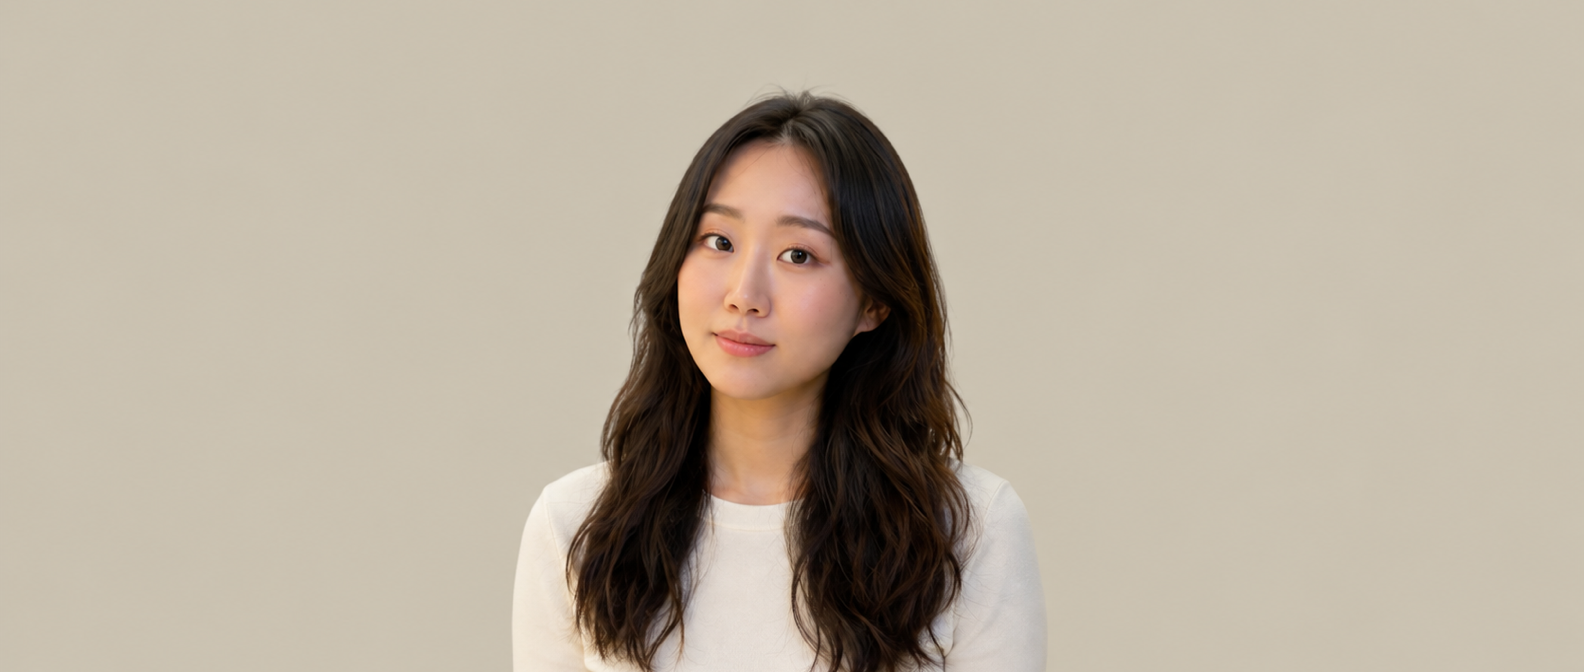
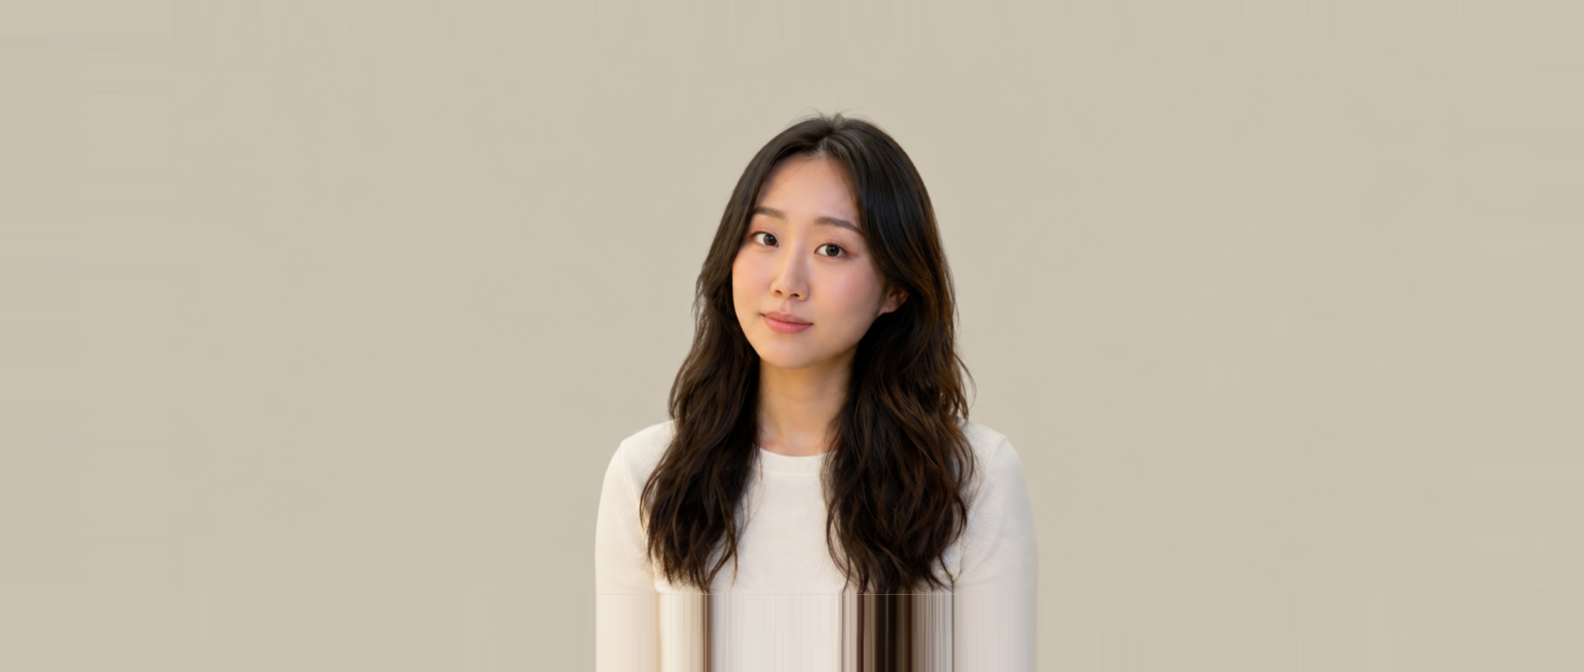
Fit every team portrait to one face size and eye line
The nine portraits come from different shoots, so the faces landed at
wildly different sizes: face width ran 157px (Sireal) to 223px (Chloe),
a 1.42x spread, and the eye line moved 56px between cards. Side by side
in the grid that reads as sloppiness.

tools/pfp/fit-portrait.swift detects the face with Vision and scales and
positions the photo into one house frame - face width 185px, eye line
y=245, face centred at x=792. Measured after: face width 183.4-187.8,
eye line 243.7-245.7. Normalising on face width rather than head or
shoulder width is deliberate; hair volume is the person's own attribute
and should not drive the layout.

Scaling up just crops in, but scaling down leaves margins, so those are
filled by stretching the source's own outermost pixel rows outward. That
is seamless here because the backdrop is flat (measured deviation 0-5
per channel) and the torso leaves the bottom edge close to vertical, so
the body continues straight down rather than leaving a hole.

Not fixed: the backdrop colour still ranges from #AEA794 on Annie's to
#D7D3CA on Rachel's. Masking a recolour off a subject risks haloing
their hair, so it is left alone and documented instead.

Changed region(s): [[0.3093, 0.125, 0.6496, 1.0]]

diff --git a/tools/pfp/fit-portrait.swift b/tools/pfp/fit-portrait.swift
@@ -1,0 +1,122 @@
+// fit-portrait — put a team portrait into the Team Human PFP frame.
+//
+//   swift fit-portrait.swift <input> <output.png> [--measure-only]
+//
+// Detects the face with Vision, then scales and positions the photo so every
+// portrait on the team page shares one face size and one eye line. Margins
+// created by scaling down are filled by stretching the source's own edge
+// pixels, which is seamless because the studio backdrop is flat and the torso
+// leaves the bottom edge vertically.
+//
+// House frame (see CLAUDE.md -> Current Team):
+//   canvas 1584x672 · face width 185px · eye line y=245 · face centred at x=792
+
+import Foundation
+import Vision
+import CoreGraphics
+import ImageIO
+import UniformTypeIdentifiers
+
+let OUT_W = 1584.0, OUT_H = 672.0
+let TARGET_FACE_W = 185.0, TARGET_EYE_Y = 245.0, TARGET_FACE_CX = 792.0
+
+let args = CommandLine.arguments
+guard args.count >= 2 else {
+    FileHandle.standardError.write("usage: fit-portrait <input> <output.png> [--measure-only]\n".data(using: .utf8)!)
+    exit(2)
+}
+let inPath = args[1]
+let measureOnly = args.contains("--measure-only")
+let outPath = (args.count > 2 && !args[2].hasPrefix("--")) ? args[2] : ""
+
+guard let src = CGImageSourceCreateWithURL(URL(fileURLWithPath: inPath) as CFURL, nil),
+      let img = CGImageSourceCreateImageAtIndex(src, 0, nil) else {
+    FileHandle.standardError.write("cannot read \(inPath)\n".data(using: .utf8)!); exit(1)
+}
+let SW = Double(img.width), SH = Double(img.height)
+
+// ---- face + eye line ------------------------------------------------------
+let req = VNDetectFaceLandmarksRequest()
+try VNImageRequestHandler(cgImage: img, options: [:]).perform([req])
+guard let faces = req.results, !faces.isEmpty,
+      let f = faces.max(by: { $0.boundingBox.width < $1.boundingBox.width }) else {
+    FileHandle.standardError.write("no face found in \(inPath)\n".data(using: .utf8)!); exit(1)
+}
+let bb = f.boundingBox
+let faceW  = bb.width * SW
+let faceCX = (bb.minX + bb.width/2) * SW
+var eyeY = (1 - (bb.minY + bb.height * 0.62)) * SH   // fallback if landmarks are missing
+if let lm = f.landmarks, let le = lm.leftEye, let re = lm.rightEye {
+    func centreY(_ r: VNFaceLandmarkRegion2D) -> Double {
+        var sy = 0.0
+        for p in r.normalizedPoints { sy += Double(p.y) }
+        let gy = bb.minY + CGFloat(sy / Double(r.pointCount)) * bb.height
+        return Double((1 - gy) * SH)
+    }
+    eyeY = (centreY(le) + centreY(re)) / 2
+}
+
+// ---- backdrop colour: median of the four corner patches -------------------
+let cs = CGColorSpaceCreateDeviceRGB()
+let buf = UnsafeMutablePointer<UInt8>.allocate(capacity: img.width * img.height * 4)
+defer { buf.deallocate() }
+buf.initialize(repeating: 0, count: img.width * img.height * 4)
+CGContext(data: buf, width: img.width, height: img.height, bitsPerComponent: 8,
+          bytesPerRow: img.width * 4, space: cs,
+          bitmapInfo: CGImageAlphaInfo.premultipliedLast.rawValue)!
+    .draw(img, in: CGRect(x: 0, y: 0, width: SW, height: SH))
+var sr: [Int] = [], sg: [Int] = [], sb: [Int] = []
+for (cx, cy) in [(8, 8), (img.width - 9, 8), (8, img.height - 9), (img.width - 9, img.height - 9)] {
+    for dx in -6...5 { for dy in -6...5 {
+        let i = ((cy + dy) * img.width + (cx + dx)) * 4
+        sr.append(Int(buf[i])); sg.append(Int(buf[i+1])); sb.append(Int(buf[i+2]))
+    } }
+}
+sr.sort(); sg.sort(); sb.sort()
+let bgR = sr[sr.count/2], bgG = sg[sg.count/2], bgB = sb[sb.count/2]
+
+let scale = TARGET_FACE_W / faceW
+if measureOnly {
+    print(String(format: "%@\tfaceW=%.1f\tfaceCX=%.1f\teyeY=%.1f\tscale=%.3f\tbg=#%02X%02X%02X",
+                 (inPath as NSString).lastPathComponent, faceW, faceCX, eyeY, scale, bgR, bgG, bgB))
+    exit(0)
+}
+guard !outPath.isEmpty else {
+    FileHandle.standardError.write("missing <output.png>\n".data(using: .utf8)!); exit(2)
+}
+
+// ---- render ---------------------------------------------------------------
+let tx = TARGET_FACE_CX - faceCX * scale
+let ty = TARGET_EYE_Y   - eyeY   * scale
+guard let ctx = CGContext(data: nil, width: Int(OUT_W), height: Int(OUT_H), bitsPerComponent: 8,
+                          bytesPerRow: 0, space: cs,
+                          bitmapInfo: CGImageAlphaInfo.noneSkipLast.rawValue) else { exit(1) }
+ctx.interpolationQuality = .high
+ctx.setFillColor(red: Double(bgR)/255, green: Double(bgG)/255, blue: Double(bgB)/255, alpha: 1)
+ctx.fill(CGRect(x: 0, y: 0, width: OUT_W, height: OUT_H))
+
+func rect(_ x: Double, _ y: Double, _ w: Double, _ h: Double) -> CGRect {   // top-left -> CG
+    CGRect(x: x, y: OUT_H - y - h, width: w, height: h)
+}
+let dw = SW * scale, dh = SH * scale, edge = 2
+if ty > 0, let s = img.cropping(to: CGRect(x: 0, y: 0, width: img.width, height: edge)) {
+    ctx.draw(s, in: rect(tx, 0, dw, ty))
+}
+if ty + dh < OUT_H, let s = img.cropping(to: CGRect(x: 0, y: img.height - edge, width: img.width, height: edge)) {
+    ctx.draw(s, in: rect(tx, ty + dh, dw, OUT_H - (ty + dh)))
+}
+if tx > 0, let s = img.cropping(to: CGRect(x: 0, y: 0, width: edge, height: img.height)) {
+    ctx.draw(s, in: rect(0, ty, tx, dh))
+}
+if tx + dw < OUT_W, let s = img.cropping(to: CGRect(x: img.width - edge, y: 0, width: edge, height: img.height)) {
+    ctx.draw(s, in: rect(tx + dw, ty, OUT_W - (tx + dw), dh))
+}
+ctx.draw(img, in: rect(tx, ty, dw, dh))
+
+guard let out = ctx.makeImage(),
+      let dest = CGImageDestinationCreateWithURL(URL(fileURLWithPath: outPath) as CFURL,
+                                                 UTType.png.identifier as CFString, 1, nil) else { exit(1) }
+CGImageDestinationAddImage(dest, out, nil)
+guard CGImageDestinationFinalize(dest) else { exit(1) }
+print(String(format: "%@  scale=%.3f  faceW %.1f -> %.0f  eyeY %.1f -> %.0f",
+             (outPath as NSString).lastPathComponent, scale, faceW, TARGET_FACE_W, eyeY, TARGET_EYE_Y))

diff --git a/CLAUDE.md b/CLAUDE.md
@@ -28,6 +28,7 @@ images/
   Recap/vol3/            # vol.3 recap photos — hero-group.jpg + g1–g6.jpg (web-resized, see "Recap section")
   Moments/               # homepage gallery — 2 photos per hackathon, vol<N>-<slug>.jpg (see "Moments")
 team-human-design.pen    # Pencil design source-of-truth mockup (Home + Events frames)
+tools/pfp/               # portrait framing tool (Vision + CoreGraphics) — see "Current Team"
 vercel.json              # Rewrites + Git-integration config — see "Deployment" below
 CONTRIBUTING.md          # Contributor onboarding (Korean) — clone-don't-fork, branch/PR flow
 .github/workflows/
@@ -69,7 +70,20 @@ Team cards are **randomly shuffled** on each page load via `shuffleTeamCards()` 
 | SMU | team.smu | /in/smu00 |
 | Chloe Kim | team.chloe | /in/chaennnnnn |
 
-**Profile photos are all `1584 x 672`** (the LinkedIn banner ratio) on a flat warm-greige backdrop, `#C9C3B3`, subject centred with the head near the top and the frame cutting off around chest level. The card renders them at `height: 200px; object-fit: cover`, so it centre-crops — **vertical framing is what matters, the wide empty sides get cut.** When a new member only has snapshots, the house style is reproduced by editing them through the `codex` CLI (see the `draw-image` skill) and then cropping to spec with `sips`; Chloe's was built that way on 2026-09-06 from a personal snapshot (Dave picked the variant; the 1672x941 source is archived at `PARA/1. Inbox/01_Images/Chloe_원본_1672x941_20260906.png`, cropped here with `sips -c 709 1672 --cropOffset 34 0` then scaled to 1584x672). **A generated portrait must be shown to the person before it ships** — it is their face.
+**Profile photos are all `1584 x 672`** (the LinkedIn banner ratio) on a flat warm-greige backdrop, subject on a plain top, frame cutting off around chest level. The card renders them at `height: 200px; object-fit: cover`, so it also centre-crops horizontally — **vertical framing is what the visitor sees; the wide empty sides get cut.**
+
+🔴 **Do not eyeball the crop — run `tools/pfp/fit-portrait.swift`.** The photos come from different shoots, and left alone the faces land at wildly different sizes: measured 2026-09-06, face width ran from **157px (Sireal) to 223px (Chloe)**, a 1.42x spread, with the eye line moving 56px between cards. In a nine-card grid that reads as sloppiness, and it is not fixable by eye. The tool detects the face with Vision and scales/positions the photo into one house frame — **face width 185px, eye line y=245, face centred at x=792** — which brought those spreads to 4px and 2px. `tools/pfp/readme.md` has the full rationale; `tools/pfp/fit-all.sh` re-fits the whole roster if the constants ever change.
+
+```bash
+swift tools/pfp/fit-portrait.swift <source>.png images/PFP/Name.png   # fit a new member
+swift tools/pfp/fit-portrait.swift images/PFP/Name.png --measure-only # check, change nothing
+```
+
+Normalise on **face** width, not head or shoulder width — hair volume is a person's own attribute and should not drive the layout. Always fit from the original photo, never from an already-fitted file; each pass resamples.
+
+**The backdrop *colour* is still not normalised** — it ranges from `#AEA794` (Annie) to `#D7D3CA` (Rachel), and Annie's card reads visibly darker than the rest. The tool deliberately leaves colour alone, because masking a backdrop recolour off a subject risks haloing their hair.
+
+When a new member only has snapshots, the house look is reproduced by editing them through the `codex` CLI (see the `draw-image` skill) onto a flat greige backdrop, then fitting with the tool above. Chloe's was built that way on 2026-09-06 from a personal snapshot; sources are archived in `PARA/1. Inbox/01_Images/`. **A generated portrait must be shown to the person before it ships** — it is their face.
 
 ### Events page state machine (`events.html`)
 

diff --git a/tools/pfp/readme.md b/tools/pfp/readme.md
@@ -1,0 +1,64 @@
+# Team portrait frame
+
+Every photo in `images/PFP/` is `1584 x 672` with the subject on a flat warm-greige
+backdrop. The card renders it at `height: 200px; object-fit: cover`, so it also
+centre-crops horizontally — **vertical framing is what the visitor sees.**
+
+Photos come from different shoots, so left alone the faces land at wildly
+different sizes. Measured before this tool existed, face width ranged from
+**157px (Sireal) to 223px (Chloe)** — a 1.42x spread — and the eye line moved
+over 56px between cards. In a nine-card grid that reads as sloppiness.
+
+## The house frame
+
+| | |
+|---|---|
+| canvas | `1584 x 672` |
+| face width | **185 px** |
+| eye line | **y = 245** |
+| face centre | **x = 792** (frame centre) |
+
+Face width, not head or shoulder width — hair volume is a person's own
+attribute and should not drive the layout. Aligning the eye line is what makes
+a row of portraits read as one set.
+
+## Use
+
+```bash
+# fit one new member's photo
+swift tools/pfp/fit-portrait.swift ~/somewhere/new-member.png images/PFP/Name.png
+
+# just measure, change nothing
+swift tools/pfp/fit-portrait.swift images/PFP/Name.png --measure-only
+
+# re-fit the whole roster (after changing the constants above)
+tools/pfp/fit-all.sh
+tools/pfp/fit-all.sh --dry-run
+```
+
+Needs macOS with the Xcode command line tools — it uses Vision for face
+detection and CoreGraphics to render. No other dependency, and nothing is added
+to the site build (there isn't one).
+
+## How the margins are filled
+
+Scaling a photo **up** just crops in, so it always covers the canvas. Scaling
+**down** leaves margins. Those are filled by stretching the source's own two
+outermost pixel rows/columns outward. It is seamless here for two reasons: the
+backdrop is flat (measured deviation 0–5 per channel), and the torso leaves the
+bottom edge close to vertical, so extending the bottom row continues the body
+straight down instead of leaving a hole.
+
+If a future photo has a gradient backdrop or a subject that leaves the bottom
+edge at an angle, this trick will show — re-shoot or re-cut the subject onto a
+flat backdrop first.
+
+## Gotchas
+
+- **Always fit from the original photo, not from a fitted file.** Each pass
+  resamples.
+- The backdrop *colour* still varies between shoots (`#AEA794` on Annie's
+  through `#D7D3CA` on Rachel's). This tool does not touch colour — it only
+  fixes size and position.
+- `--measure-only` prints the detected face width, centre, eye line and
+  backdrop colour. Use it before and after to prove a change did what you meant.
